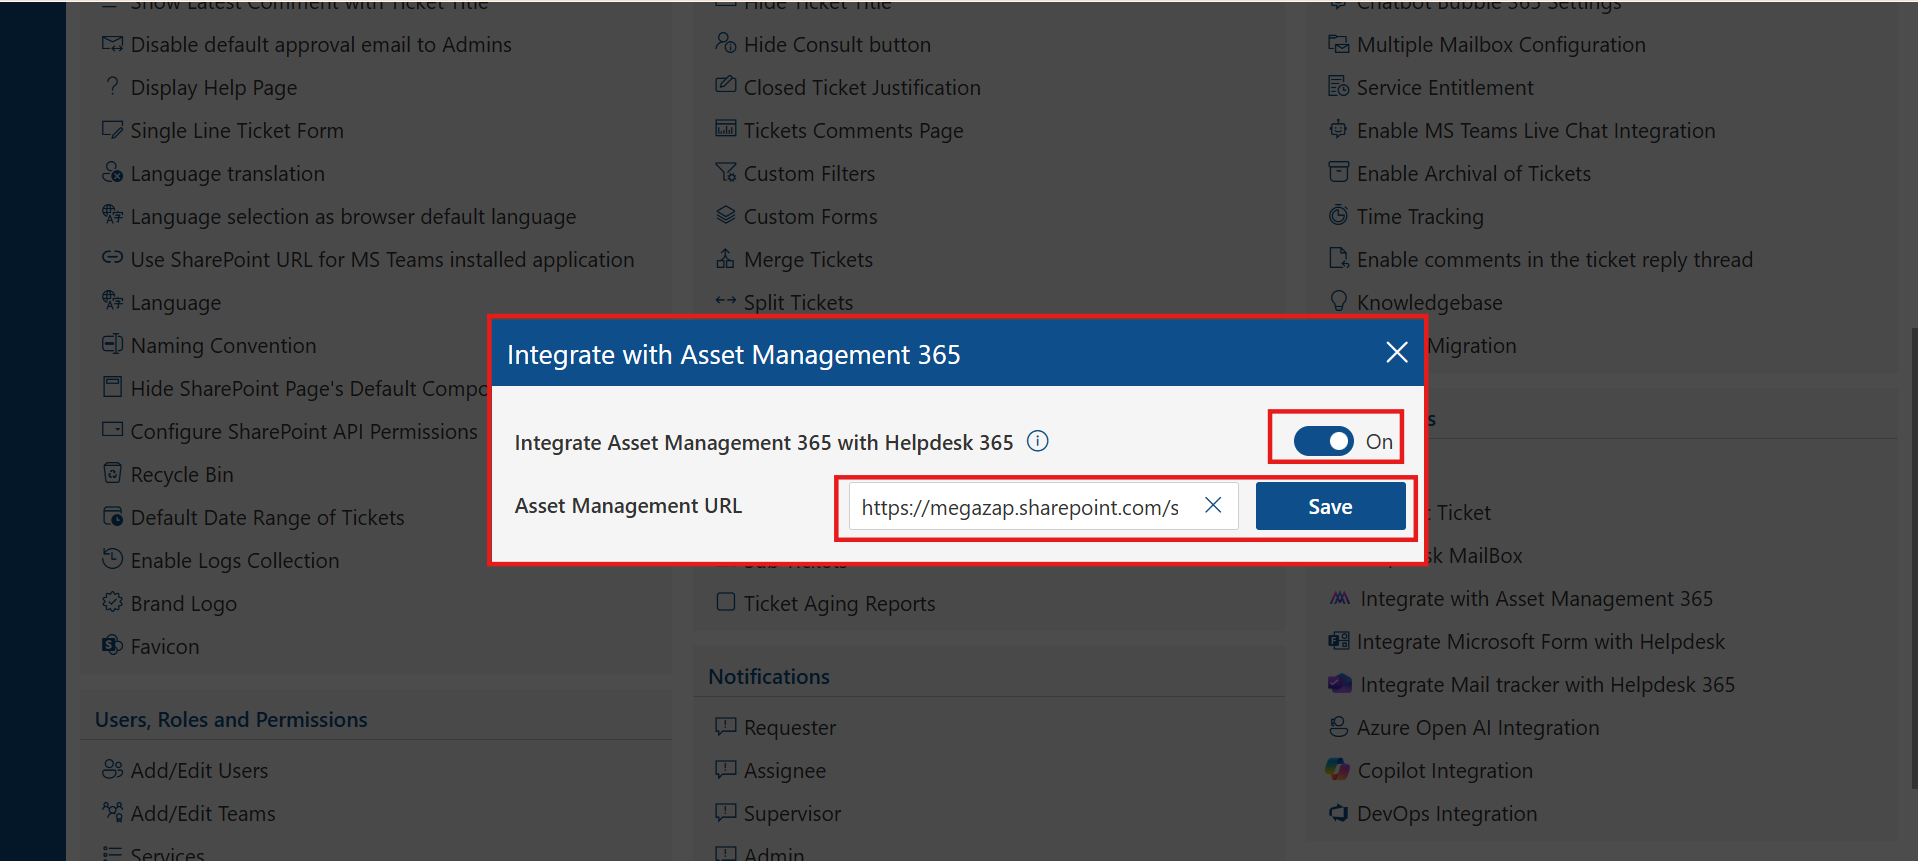
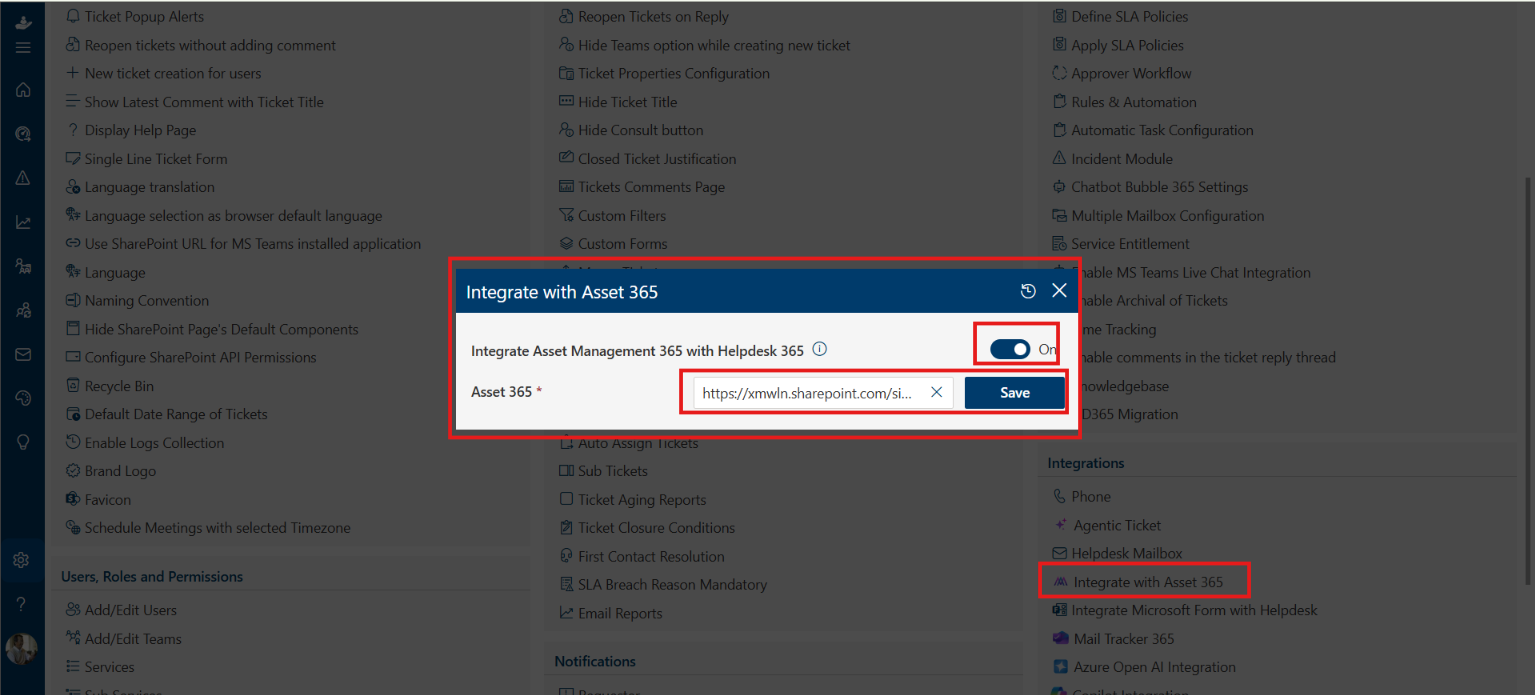
Helpdesk Changes

diff --git a/sharepoint-helpdesk/modern/admin/hdm-admin-aside-js/hdm-admin-aside.js b/sharepoint-helpdesk/modern/admin/hdm-admin-aside-js/hdm-admin-aside.js
@@ -320,10 +320,10 @@ $(document).ready(function () {
         // "</ul>"+
         // "<a href='/sharepoint-helpdesk/modern/admin/settings/integration/#graph-api'>Microsoft Graph API</a>"+
         // "</li>"+
-        "<li data-nav-id='./Add Assets/ ' title='Integrate with Apps365 Asset Management' class='sidelist '>" +
+        "<li data-nav-id='./Add Assets/ ' title='Integrating Asset Management 365 with Helpdesk 365' class='sidelist '>" +
         "<ul class='sidenavSub-topics '>" +
         "</ul>" +
-        "<a href='/sharepoint-helpdesk/modern/admin/settings/integration/#integrateMicrosoft'>Integrate with Apps365 Asset Management</a>" +
+        "<a href='/sharepoint-helpdesk/modern/admin/settings/integration/#Integrating-Asset-Management'>Integrating Asset Management 365 with Helpdesk 365</a>" +
         "<li data-nav-id='./Add Assets/ ' title='Integrate Microsoft Form with Helpdesk' class='sidelist '>" +
         "<ul class='sidenavSub-topics '>" +
         "</ul>" +

diff --git a/sharepoint-helpdesk/modern/admin/settings/integration/index.html b/sharepoint-helpdesk/modern/admin/settings/integration/index.html
@@ -273,7 +273,7 @@
 
 
                         </div> -->
-                        <div class="bg-light p-4 remove-padding common-scroll" id="integrate">
+                        <div class="bg-light p-4 remove-padding common-scroll" id="Integrating-Asset-Management">
                             <ul class=page-list>
                                 <h2 id="_dashboards"><a class="header-icon-link highlight " href=#>Integrating Asset
                                         Management 365 with Helpdesk 365
